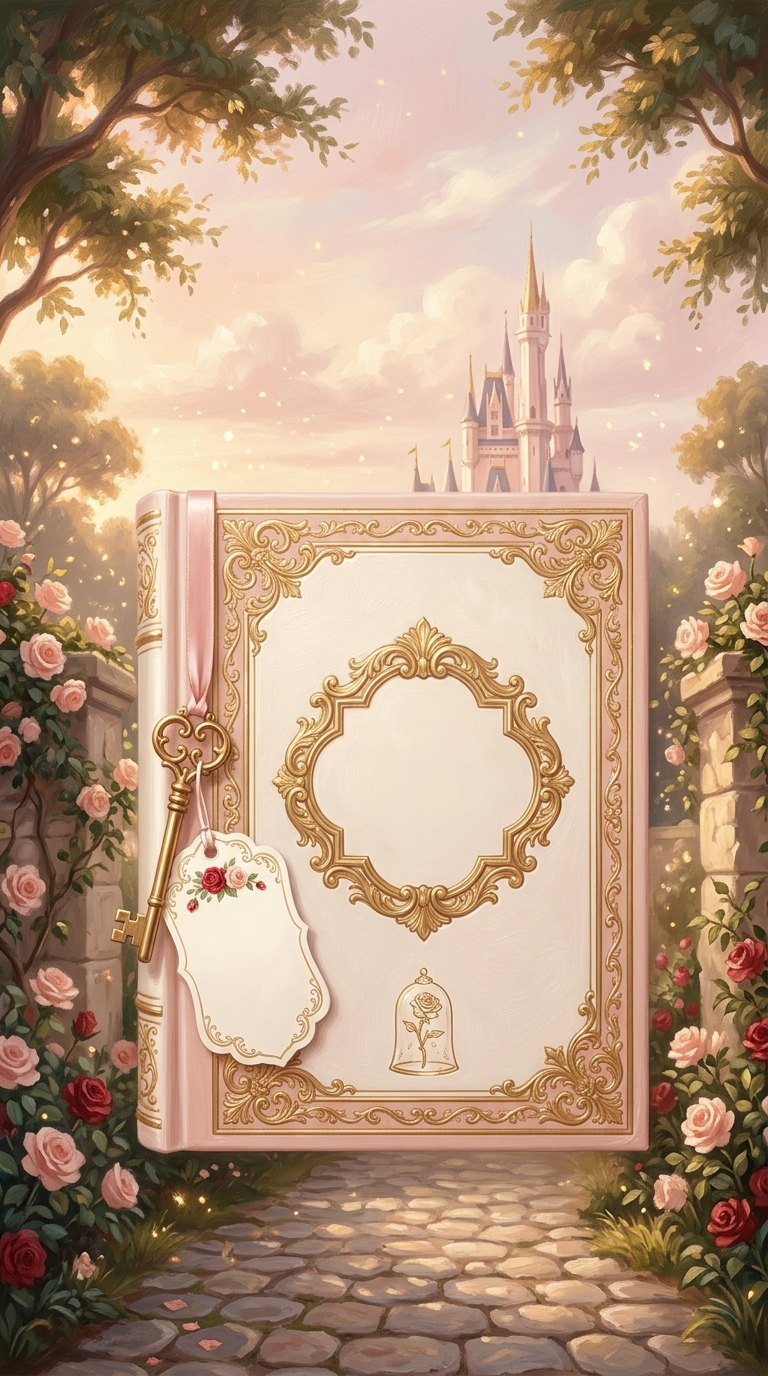
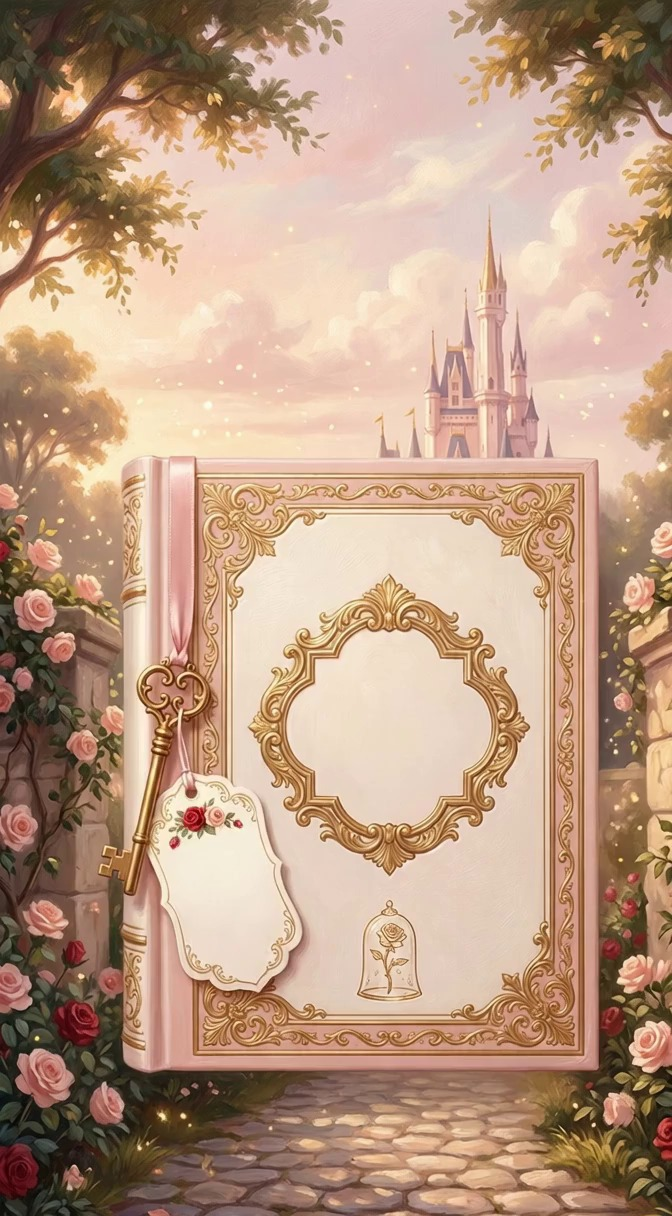
fix: portada = primer fotograma del video (sin salto al tocar)

diff --git a/index.html b/index.html
@@ -18,7 +18,7 @@
 <meta name="twitter:title" content="Mis XV Años · Shelsy Arabella Cruz">
 <meta name="twitter:description" content="Te invito a celebrar mis XV años · Domingo 20 de diciembre de 2026 · San Miguel, El Salvador.">
 <meta name="twitter:image" content="https://xv-shelsy-arabella.vercel.app/og.jpg?v=2">
-<link rel="preload" as="image" href="libro.jpg?v=2">
+<link rel="preload" as="image" href="libro.jpg?v=3">
 <link rel="preload" as="image" href="img/f2.jpg">
 <link rel="preload" as="video" href="libro.mp4?v=2">
 <link rel="preconnect" href="https://fonts.googleapis.com">
@@ -1932,10 +1932,10 @@ body.gift-locked{overflow:hidden;overscroll-behavior:none}
 @media (prefers-reduced-motion:reduce){.hero-bg-2{animation:none}}
 
 /* ===== Portada v2: jardín del castillo con llave y etiqueta ===== */
-.cv-top{left:39%!important;right:28.5%!important;top:48.6%!important;height:16%;display:flex;flex-direction:column;align-items:center;justify-content:center}
+.cv-top{left:43%!important;right:27%!important;top:51.4%!important;height:15.6%;display:flex;flex-direction:column;align-items:center;justify-content:center}
 .cv-eyebrow{font-size:2.1cqw!important;letter-spacing:.3em!important;padding-left:.3em!important;color:#7A5A1C!important}
 .cv-name{font-size:4.3cqw!important;line-height:1.12!important;color:#7A2B48!important;margin-top:.6cqw!important;font-weight:600!important}
-.cv-pass{left:23.5%!important;right:59%!important;top:67.6%!important;height:9.2%!important;transform:rotate(-3deg);transform-origin:50% 0}
+.cv-pass{left:25%!important;right:57%!important;top:70%!important;height:9%!important;transform:rotate(-3deg);transform-origin:50% 0}
 .cv-for{font-size:2.2cqw!important;color:#7A5A1C!important;font-weight:600!important}
 .cv-guest{font-size:3.1cqw!important;line-height:1.15!important;color:#7A2B48!important;margin:.5cqw 0 .6cqw!important}
 .cv-pases{font-size:2cqw!important;letter-spacing:.12em!important;padding-left:.12em!important;color:#7A5A1C!important}
@@ -1945,7 +1945,7 @@ body.gift-locked{overflow:hidden;overscroll-behavior:none}
 
 /* ===== PORTADA LIBRO · Bella y Bestia (imagen + video a pantalla completa) ===== */
 #envelope-screen{background:#F6EEEE!important;overflow:hidden}
-.cv-stage{position:absolute;left:50%;top:50%;aspect-ratio:768/1376;width:max(100vw,calc(100vh*.5581));
+.cv-stage{position:absolute;left:50%;top:50%;aspect-ratio:672/1216;width:max(100vw,calc(100vh*.5526));
   transform:translate(-50%,-50%);container-type:inline-size}
 @media (min-aspect-ratio:62/100){
   #envelope-screen{background:radial-gradient(ellipse at 50% 45%,#FFFAF8 0%,#F6E6EA 55%,#EBCFD8 100%)!important}
@@ -1974,7 +1974,7 @@ body.gift-locked{overflow:hidden;overscroll-behavior:none}
 <!-- PORTADA LIBRO · PASE DIGITAL -->
 <div id="envelope-screen" role="button" aria-label="Toca para abrir la invitación" tabindex="0">
   <div class="cv-stage">
-    <img id="env-image" src="libro.jpg?v=2" alt="">
+    <img id="env-image" src="libro.jpg?v=3" alt="">
     <video id="env-video" muted playsinline preload="auto"><source src="libro.mp4?v=2" type="video/mp4"></video>
     <div class="cv-phrase" id="cv-phrase">Hoy comienza un capítulo<br>muy especial de mi vida</div>
     <div class="cv-top" id="cv-top">
@@ -2792,8 +2792,8 @@ document.body.style.overflow = 'hidden';
     gsap.to([envHint].concat(textos),{opacity:0,duration:.35,ease:'power2.out'});
     const p = envVideo.play();
     if(p && typeof p.catch === 'function') p.catch(()=>{ triggerFlash(); });
-    gsap.to(envImage,{opacity:0,duration:.6,ease:'power2.inOut',delay:.15,onComplete:()=>{envImage.style.display='none'}});
-    gsap.to(envVideo,{opacity:1,duration:.6,ease:'power2.inOut'});
+    const swap=()=>{ gsap.set(envVideo,{opacity:1}); requestAnimationFrame(()=>{ envImage.style.display='none'; }); };
+    if('requestVideoFrameCallback' in envVideo) envVideo.requestVideoFrameCallback(swap); else envVideo.addEventListener('playing', swap, {once:true});
     envVideo.addEventListener('timeupdate', onTimeUpdate);
     envVideo.addEventListener('ended', triggerFlash);
     failsafe = setTimeout(triggerFlash, 11000);
